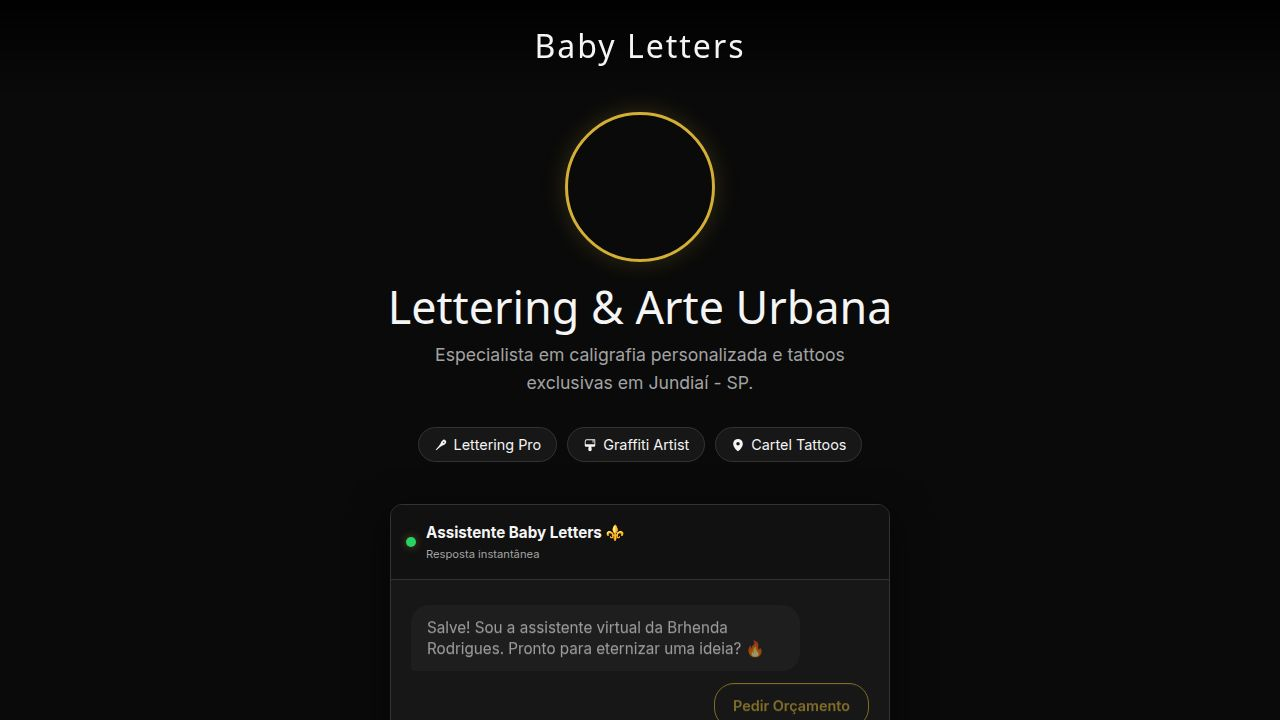
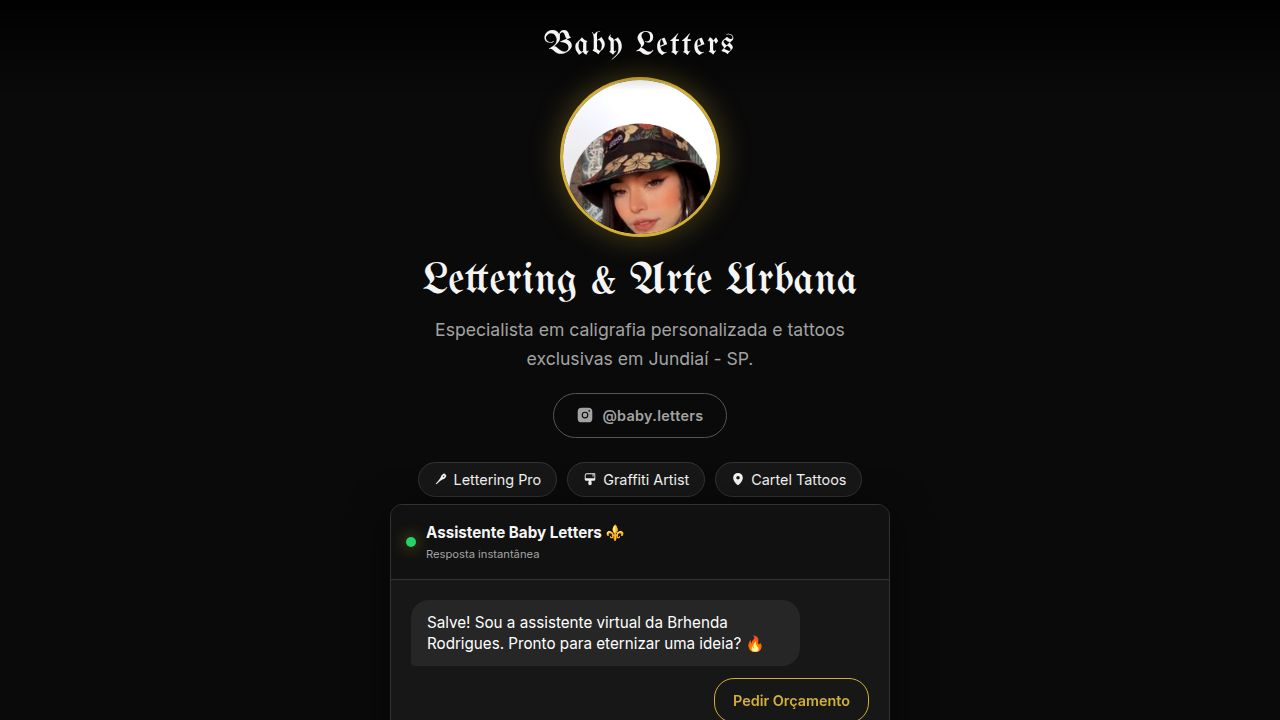
Adjust profile picture to accurately show the face
Update CSS properties in Hero.tsx for object-fit, object-position, filter, and transform for the profile image.

Replit-Commit-Author: Agent
Replit-Commit-Session-Id: 4ddea947-dec6-4c01-9220-ab9559edf3a9
Replit-Commit-Checkpoint-Type: full_checkpoint
Replit-Commit-Event-Id: 76ca7216-997a-41af-bff5-2e654c06f045
Replit-Commit-Screenshot-Url: https://storage.googleapis.com/screenshot-production-us-central1/89a9a1ff-ff80-44aa-8c8f-04100c3851e9/4ddea947-dec6-4c01-9220-ab9559edf3a9/DSjtdZp
Replit-Helium-Checkpoint-Created: true

Changed region(s): [[0.2812, 0.0306, 0.7188, 0.7028], [0.3125, 0.8556, 0.6875, 1.0]]

diff --git a/artifacts/baby-letters/src/components/Hero.tsx b/artifacts/baby-letters/src/components/Hero.tsx
@@ -34,10 +34,9 @@ export default function Hero() {
             width: "100%",
             height: "100%",
             objectFit: "cover",
-            objectPosition: "center 38%",
-            filter: "contrast(1.08) brightness(1.05) saturate(1.1)",
-            transform: "scale(1.4)",
-            transformOrigin: "center 38%",
+            objectPosition: "center 45%",
+            filter: "contrast(1.1) brightness(1.05) saturate(1.1)",
+            transform: "scale(1.0)",
           }}
         />
       </div>
